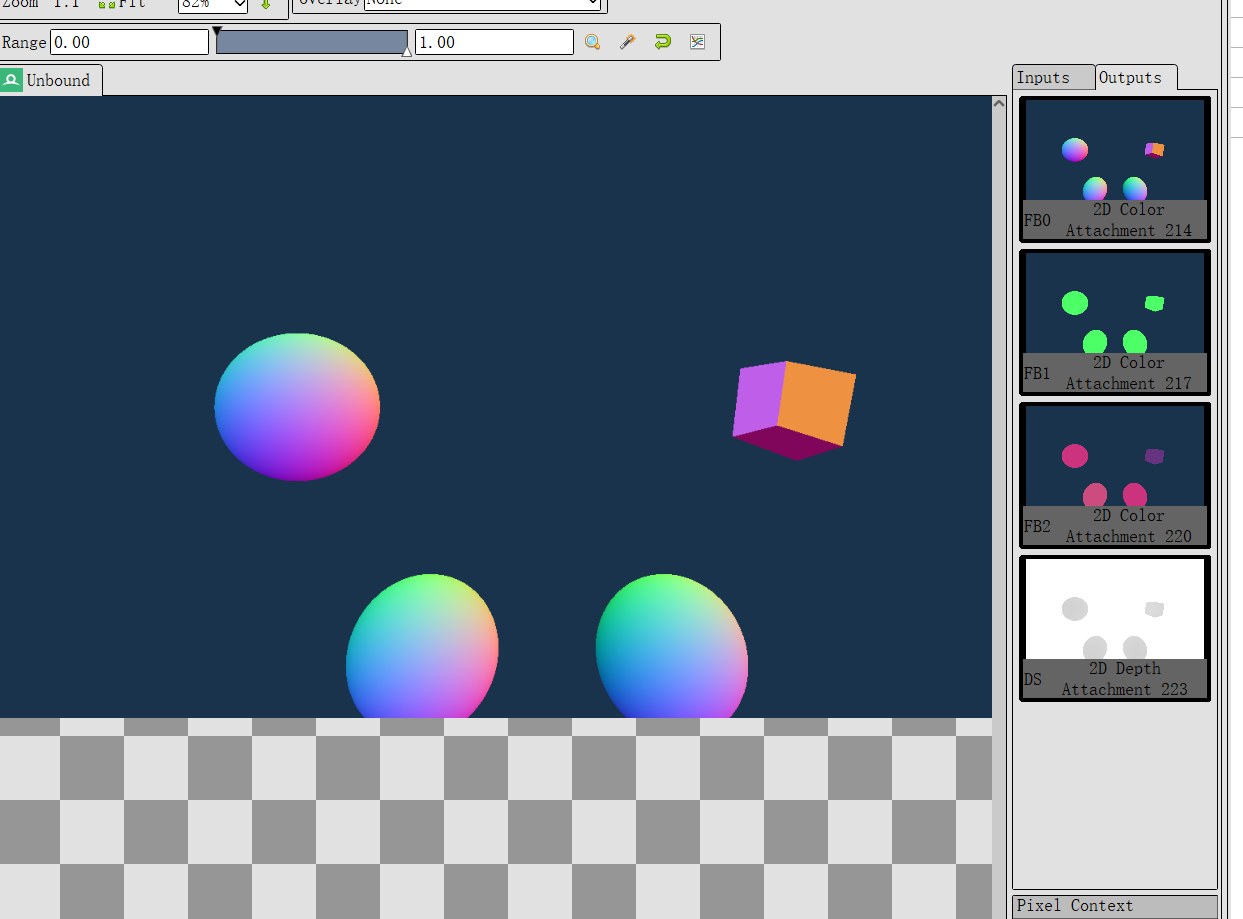
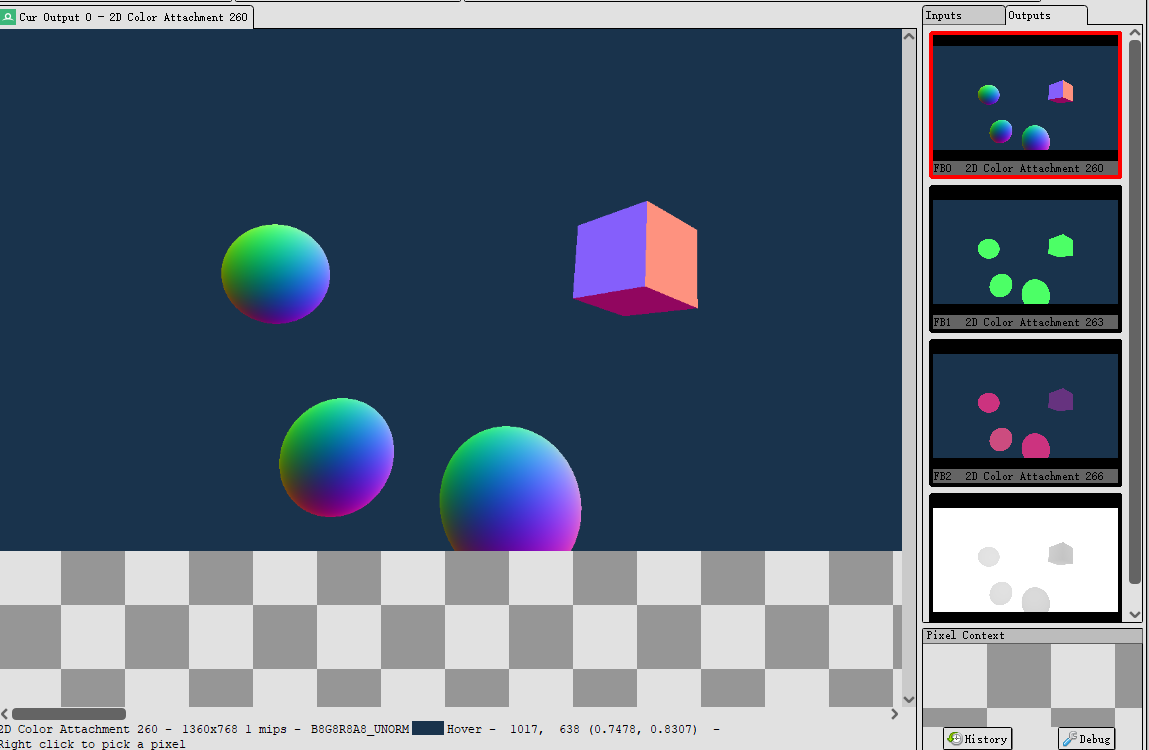
摄像机问题修复

diff --git a/Core/Private/ECS/System/AdPBRMaterialSystem.cpp b/Core/Private/ECS/System/AdPBRMaterialSystem.cpp
@@ -197,6 +197,7 @@ void AdPBRMaterialSystem::OnInit(AdVKRenderPass *renderPass) {
                                         0, ARRAY_SIZE(descriptorSets), descriptorSets, 0, nullptr);
 
                 ModelPC pc = { transComp.GetTransform() ,};
+
                 vkCmdPushConstants(cmdBuffer, mGbufferRender->GetPipelineLayout()->GetHandle(), VK_SHADER_STAGE_VERTEX_BIT, 0, sizeof(pc), &pc);
 
                 for (const auto &meshIndex: entry.second){

diff --git a/Core/Public/ECS/Component/AdLookAtCameraComponent.h b/Core/Public/ECS/Component/AdLookAtCameraComponent.h
@@ -39,7 +39,7 @@ namespace ade{
         float mAspect{ 1.f };
         float mNearPlane{ 0.3f };
         float mFarPlane{ 1000.f };
-        glm::vec3 mPosition {0.f,0.f,0.f};
+        glm::vec3 mPosition {0.f,0.f,-5.f};
         glm::vec3 mTarget{ 0.f, 0.f, 0.f };
         glm::vec3 mWorldUp{ 0.f, 1.f, 0.f };
 

diff --git a/Core/Public/ECS/Component/AdTransformComponent.h b/Core/Public/ECS/Component/AdTransformComponent.h
@@ -2,7 +2,7 @@
 #define AD_TRANSFORMCOMPONENT_H
 
 #include <AdLog.h>
-
+#define GLM_FORCE_DEPTH_ZERO_TO_ONE
 #include "ECS/AdComponent.h"
 #include "AdGraphicContext.h"
 #include "glm/gtx/matrix_decompose.hpp"
